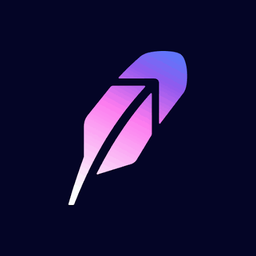
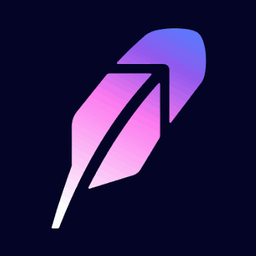
frontend: bigger feather + download CTA in the wallet strip
The feather only filled ~46% of its 447px tile, so at 48px it read as a
speck. Re-cropped the tile to a square centred on the mark (~78% fill) and
bumped the display size to 64px.

Added the call to action Robinhood's ask really wanted: a green "Get the
wallet today →" above the badges, and a closing line in the copy tying the
download to being ready to claim and manage a name at launch.

Claude-Session: https://claude.ai/code/session_01CbzW8oN5vp3AkhU6KmmHgp

Changed region(s): [[0.1875, 0.0938, 0.8125, 0.9062]]

diff --git a/frontend/components/Footer.tsx b/frontend/components/Footer.tsx
@@ -32,7 +32,7 @@ function WalletStrip() {
           src="/robinhood/robinhood-wallet-icon.png"
           alt=""
           aria-hidden="true"
-          className="h-12 w-12 shrink-0 rounded-xl"
+          className="h-16 w-16 shrink-0 rounded-2xl"
         />
         <div>
           <p className="eyebrow">Holds your name</p>
@@ -44,27 +44,33 @@ function WalletStrip() {
           />
           <p className="mt-2 max-w-sm text-xs leading-relaxed text-[var(--dim)]">
             A self-custody wallet with Robinhood Chain built in — the network your
-            HoodFi name lives on. Your keys, your name.
+            HoodFi name lives on. Download it today and you&rsquo;ll be ready to claim
+            and manage your name the day we launch.
           </p>
         </div>
       </div>
-      <div className="flex shrink-0 flex-wrap items-center gap-3">
-        <a href={WALLET_IOS} target="_blank" rel="noreferrer">
-          {/* eslint-disable-next-line @next/next/no-img-element -- static export, no optimizer */}
-          <img
-            src="/robinhood/appstore-badge.png"
-            alt="Download Robinhood Wallet on the App Store"
-            className="block h-10 w-auto opacity-90 transition-opacity hover:opacity-100"
-          />
-        </a>
-        <a href={WALLET_ANDROID} target="_blank" rel="noreferrer">
-          {/* eslint-disable-next-line @next/next/no-img-element -- static export, no optimizer */}
-          <img
-            src="/robinhood/googleplay-badge.png"
-            alt="Get Robinhood Wallet on Google Play"
-            className="block h-10 w-auto opacity-90 transition-opacity hover:opacity-100"
-          />
-        </a>
+      <div className="flex shrink-0 flex-col gap-2.5 sm:items-end">
+        <p className="data text-[11px] tracking-wide text-[var(--green)]">
+          Get the wallet today →
+        </p>
+        <div className="flex flex-wrap items-center gap-3">
+          <a href={WALLET_IOS} target="_blank" rel="noreferrer">
+            {/* eslint-disable-next-line @next/next/no-img-element -- static export, no optimizer */}
+            <img
+              src="/robinhood/appstore-badge.png"
+              alt="Download Robinhood Wallet on the App Store"
+              className="block h-10 w-auto opacity-90 transition-opacity hover:opacity-100"
+            />
+          </a>
+          <a href={WALLET_ANDROID} target="_blank" rel="noreferrer">
+            {/* eslint-disable-next-line @next/next/no-img-element -- static export, no optimizer */}
+            <img
+              src="/robinhood/googleplay-badge.png"
+              alt="Get Robinhood Wallet on Google Play"
+              className="block h-10 w-auto opacity-90 transition-opacity hover:opacity-100"
+            />
+          </a>
+        </div>
       </div>
     </div>
   );
